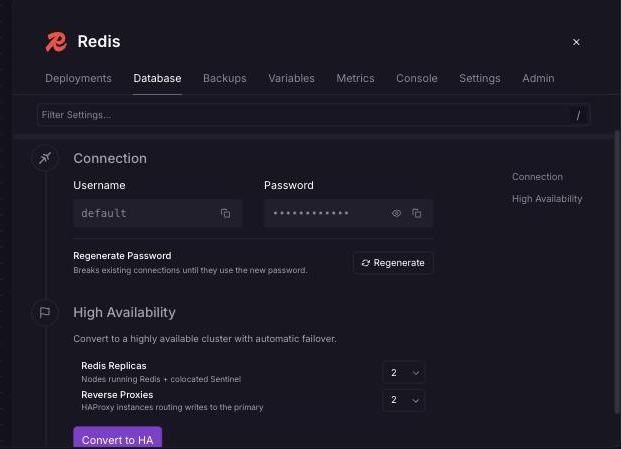
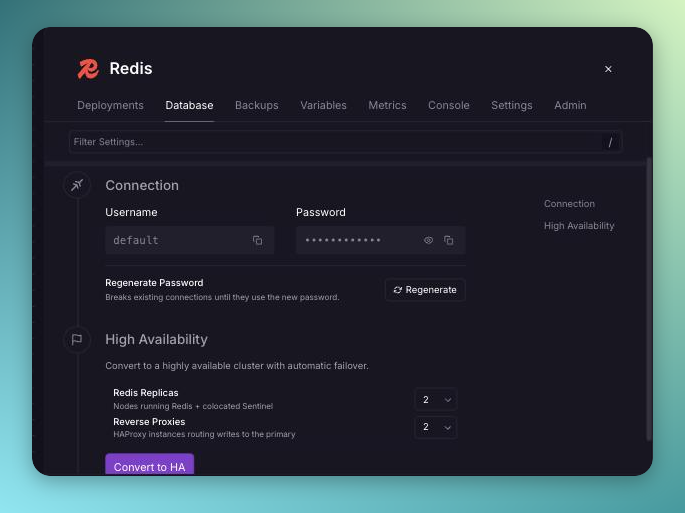
Frame HA screenshots in the docs house style (rounded panel on gradient)

diff --git a/content/docs/databases/postgresql-ha.md b/content/docs/databases/postgresql-ha.md
@@ -49,7 +49,7 @@ Open your Postgres service and navigate to **Database → Config → High Availa
 <Image src="/images/postgresql-ha-config.png"
 alt="High Availability section in the Postgres Config tab, showing the Replicas, Coordinator Nodes, and Reverse Proxy selectors and the Convert to HA button"
 layout="intrinsic"
-width={956} height={574} quality={100} />
+width={1020} height={638} quality={100} />
 
 Click **Convert to HA**. A confirmation dialog will appear warning that:
 
@@ -59,7 +59,7 @@ Click **Convert to HA**. A confirmation dialog will appear warning that:
 <Image src="/images/postgresql-ha-convert.png"
 alt="Convert to High Availability confirmation dialog for Postgres"
 layout="intrinsic"
-width={1400} height={866} quality={100} />
+width={916} height={542} quality={100} />
 
 After confirming, Railway will:
 
@@ -72,7 +72,7 @@ Review the staged changes and click **Deploy** to complete the conversion.
 <Image src="/images/postgresql-ha-staged.png"
 alt="Cluster overview showing the staged HA services with a Deploy to enable HA banner"
 layout="intrinsic"
-width={1512} height={795} quality={100} />
+width={1576} height={859} quality={100} />
 
 ## Step 3 — Connection Strings
 
@@ -98,7 +98,7 @@ After all deployments reach a running state, allow approximately 2 minutes for P
 <Image src="/images/postgresql-ha-overview.png"
 alt="Healthy Postgres HA cluster overview showing the primary and replica nodes"
 layout="intrinsic"
-width={1376} height={831} quality={100} />
+width={1314} height={795} quality={100} />
 
 ## Failover
 
@@ -119,7 +119,7 @@ Reverting will:
 <Image src="/images/postgresql-ha-revert.png"
 alt="Revert to Standalone confirmation dialog for a Postgres HA cluster"
 layout="intrinsic"
-width={1400} height={866} quality={100} />
+width={916} height={542} quality={100} />
 
 **Reverting is only available while the original Postgres service is the cluster leader.** Reverting keeps that service and deletes every other node — if the leader role has moved after a failover, reverting would delete the node holding the latest data. If the original service is not the leader, use **Make Leader** to promote it first; the revert flow offers this when it applies.
 

diff --git a/content/docs/databases/redis-ha.md b/content/docs/databases/redis-ha.md
@@ -37,7 +37,7 @@ Open your Redis service and navigate to **Database → Config → High Availabil
 <Image src="/images/redis-ha-config.png"
 alt="High Availability section in the Redis Config tab, showing the Redis Replicas and Reverse Proxies selectors and the Convert to HA button"
 layout="intrinsic"
-width={621} height={449} quality={100} />
+width={685} height={513} quality={100} />
 
 ## Step 2 — Configure and Convert
 
@@ -58,7 +58,7 @@ Click **Convert to HA**. A confirmation dialog will appear warning that:
 <Image src="/images/redis-ha-convert.png"
 alt="Convert to High Availability confirmation dialog for Redis"
 layout="intrinsic"
-width={1512} height={795} quality={100} />
+width={642} height={398} quality={100} />
 
 After confirming, Railway will:
 
@@ -90,7 +90,7 @@ After all deployments reach a running state, allow a minute or two for Sentinel 
 <Image src="/images/redis-ha-overview.png"
 alt="Healthy Redis HA cluster overview showing the primary and replica nodes"
 layout="intrinsic"
-width={960} height={771} quality={100} />
+width={1012} height={777} quality={100} />
 
 ## Failover
 
